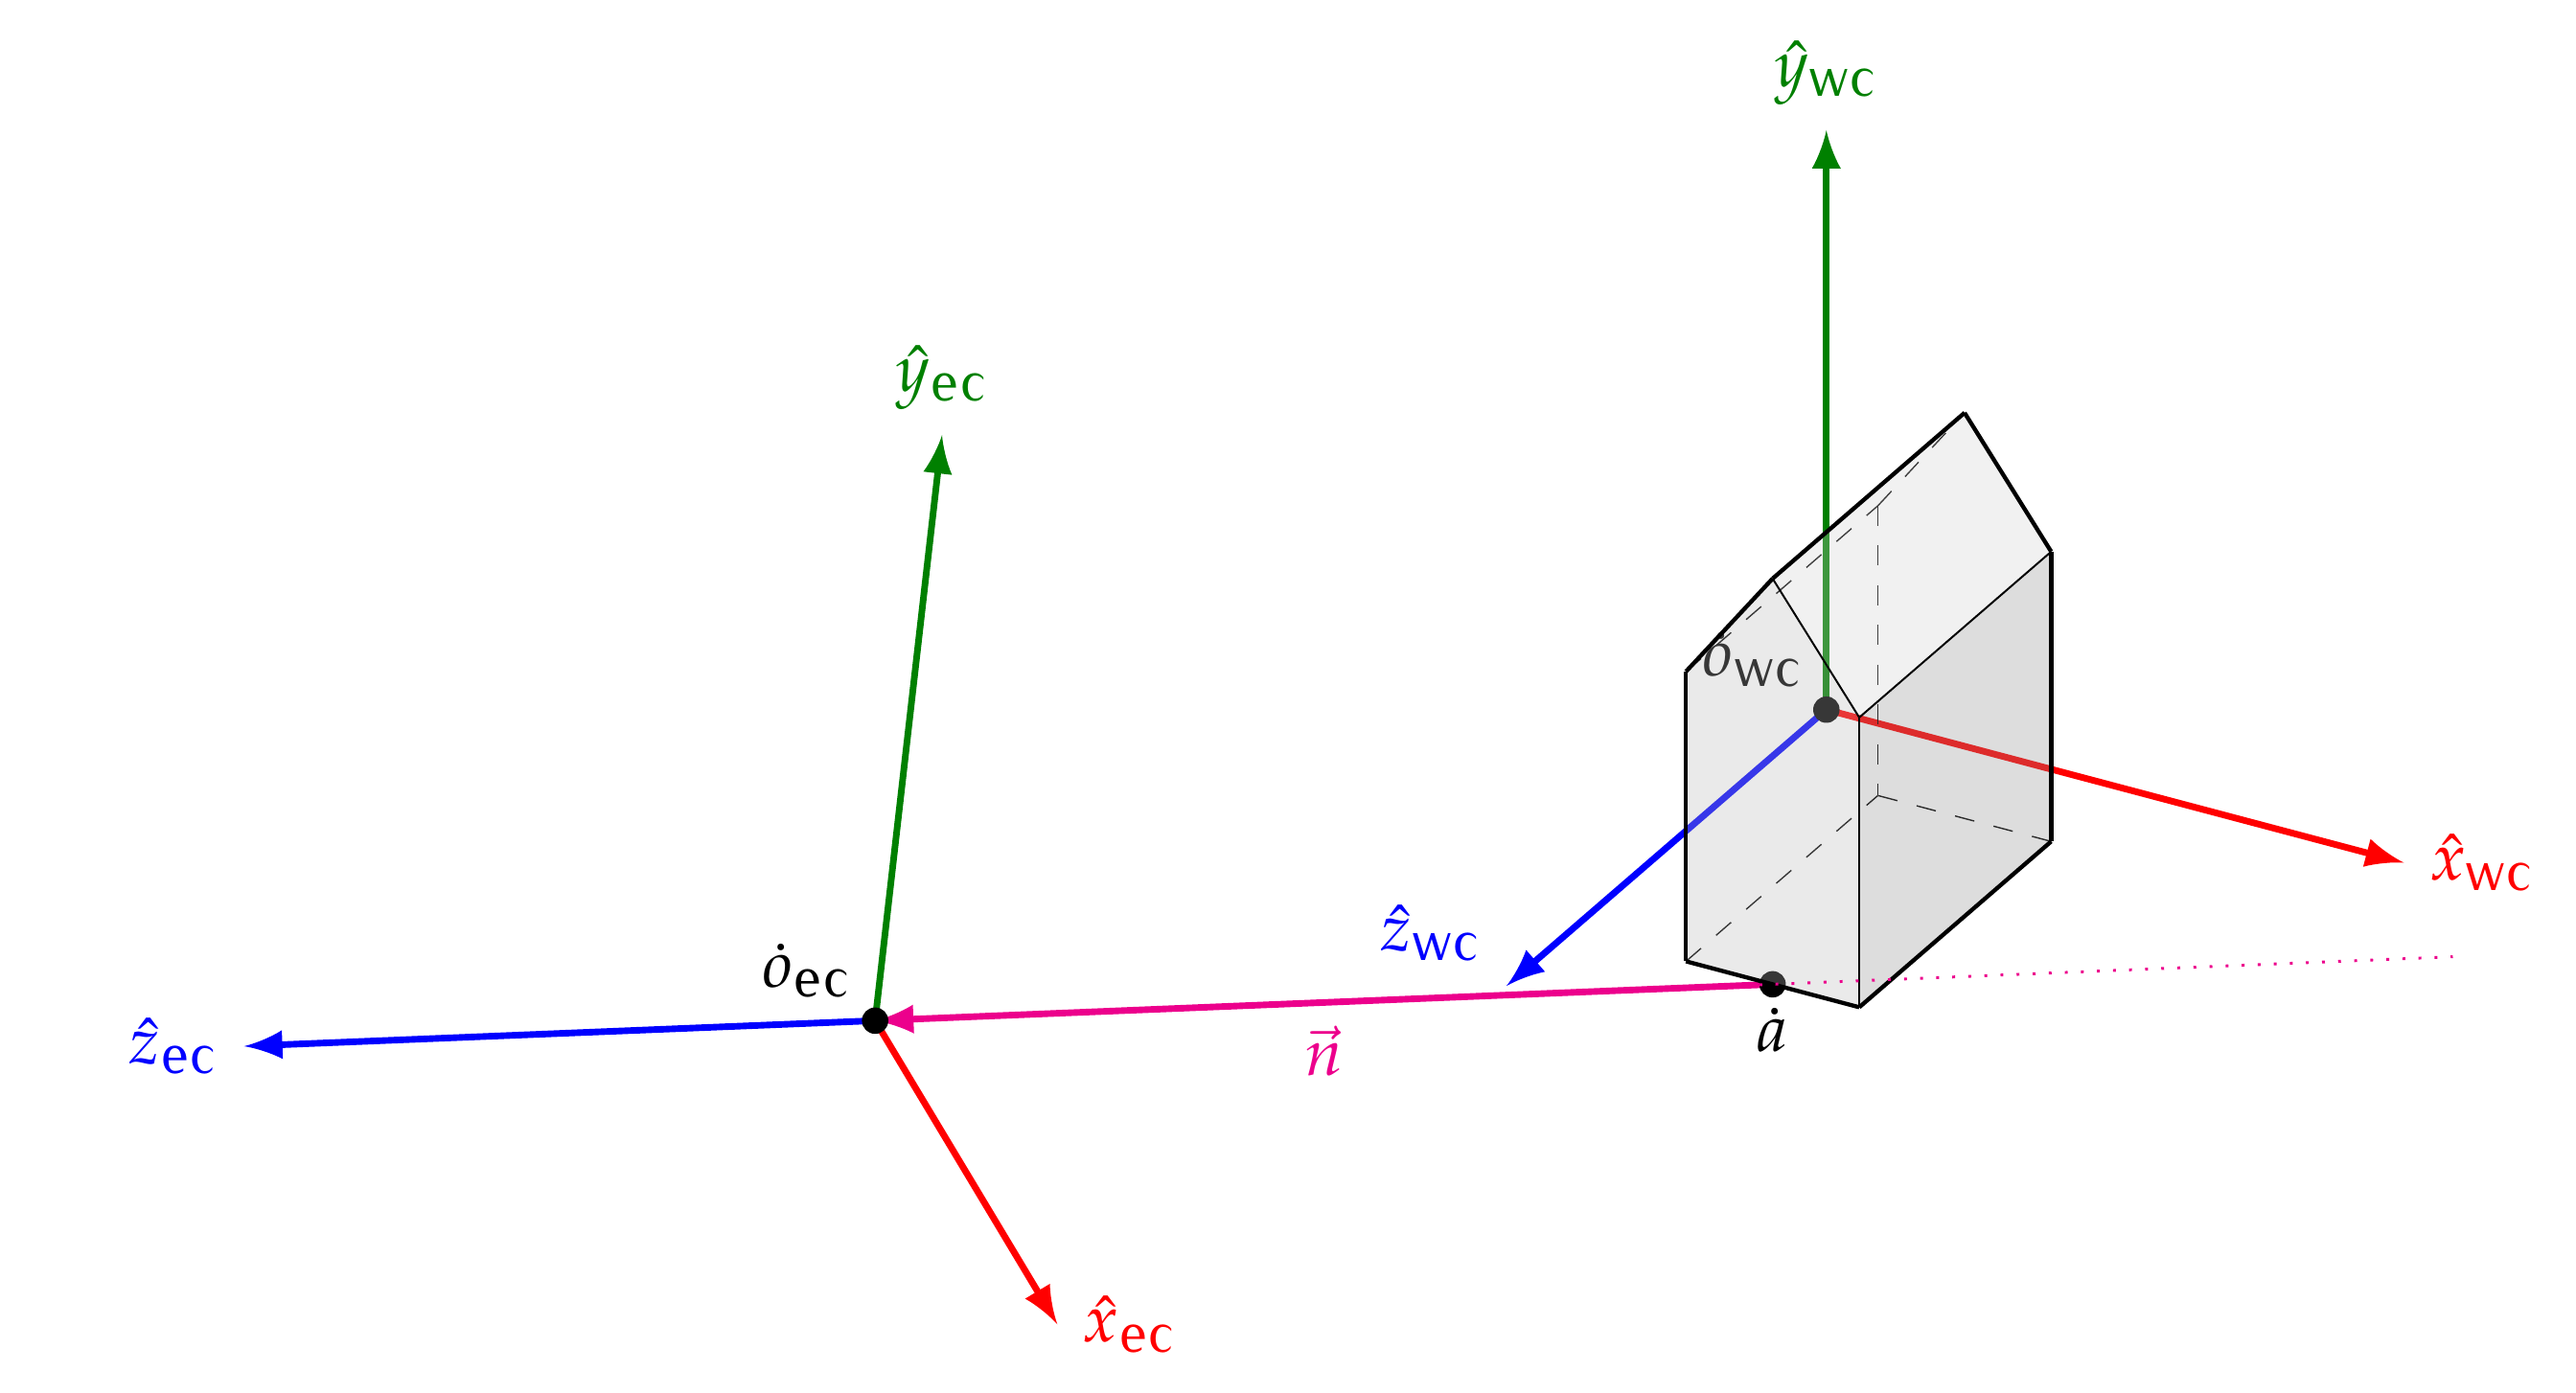
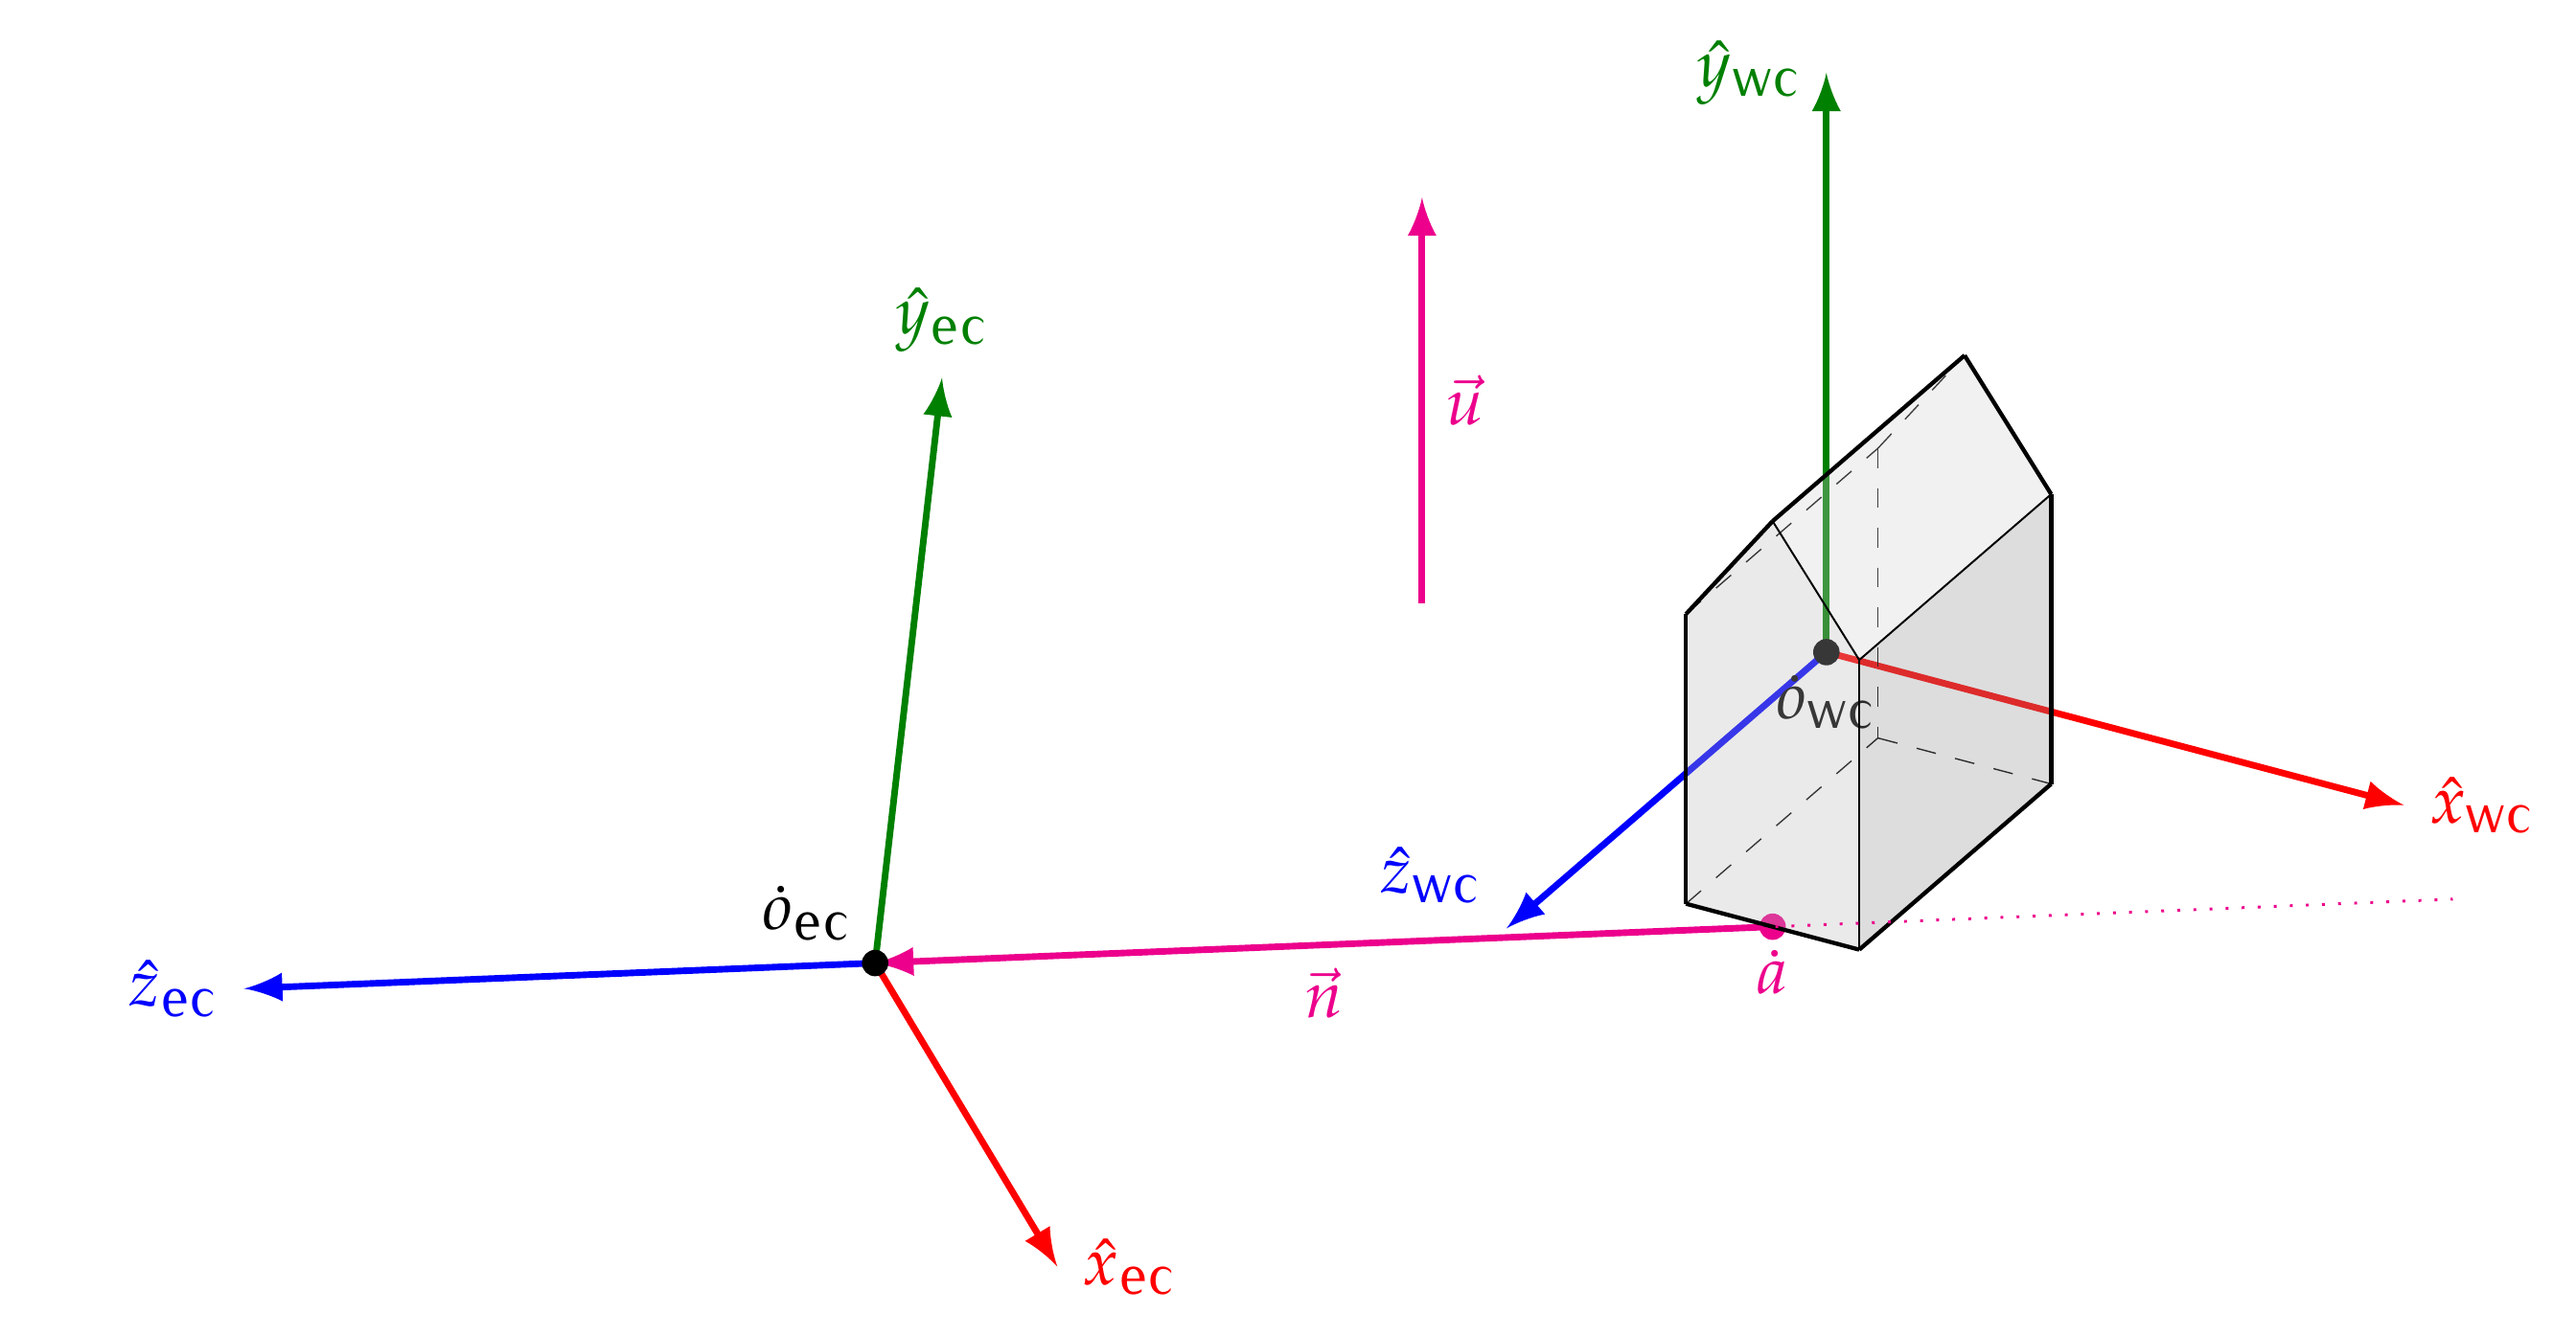
updated fig.13 and fig.14

diff --git a/src/fig14-matriz-vista-2.cpp b/src/fig14-matriz-vista-2.cpp
@@ -58,31 +58,43 @@ int main( int argc, char *argv[] )
       z_wc = view_mat*Vec4( 0.0, 0.0, 1.0, 0.0 ),
       o_wc = view_mat*Vec4( 0.0, 0.0, 0.0, 1.0 ),
 
-      o_ec = view_mat*Vec4( oec[0], oec[1], oec[2], 1.0 ),
-      x_ec = view_mat*Vec4( xec[0], xec[1], xec[2], 0.0 ),
-      y_ec = view_mat*Vec4( yec[0], yec[1], yec[2], 0.0 ),
-      z_ec = view_mat*Vec4( zec[0], zec[1], zec[2], 0.0 ),
+      o_ec = view_mat*Vec4( oec[0], oec[1], oec[2], 1.0 ), // (0,0,0) - pero lo dejo así para ver ue va bien la matriz
+      x_ec = view_mat*Vec4( xec[0], xec[1], xec[2], 0.0 ), // (1,0,0)
+      y_ec = view_mat*Vec4( yec[0], yec[1], yec[2], 0.0 ), // (0,1,0)
+      z_ec = view_mat*Vec4( zec[0], zec[1], zec[2], 0.0 ), // (0,0,1)
 
       at_ec4 = view_mat*Vec4( at[0], at[1], at[2], 1.0 ),
       n_ec4  = view_mat*Vec4( n[0], n[1], n[2], 0.0 ) ;
 
+   const Vec4
+      u_wc4  = { 0.0,  0.7, 0.0, 0.0 } ,
+      uo_wc4 = {-0.7, -0.1, 0.0, 1.0 } ,  // point where 'u' is placed (u's origin )
+      u_ec4  = view_mat*u_wc4,
+      uo_ec4 = view_mat*uo_wc4 ;
+
    const Vec3 
       at_ec = { at_ec4[0], at_ec4[1], at_ec4[2] },
-      n_ec  = { n_ec4[0],  n_ec4[1],  n_ec4[2]  } ;
+      n_ec  = { n_ec4[0],  n_ec4[1],  n_ec4[2]  } ,
+      u_ec  = { u_ec4[0],  u_ec4[1],  u_ec4[2]  } ,
+      uo_ec = { uo_ec4[0], uo_ec4[1], uo_ec4[2]  } ;
 
    
 
    const auto 
       casita = InstancedMesh { MurosCasita {1.4},  view_mat*Mat4_Translation( {0.2, 0.0, 0.2} )*Mat4_Scale( { 0.3, 0.5, 0.6} ) } ;
 
-   // draw n vector 
+   // draw n vector and label 
    line( at_ec, at_ec + n_ec, "->,>=latex,color=magenta,line width=0.35mm", " ");
+   const Vec3 pos_ec = at_ec + 0.5f*n_ec ;
+   cout << "\\path " << pos_ec << " node[below] {\\color{magenta}$\\fln$};" << endl ;
    // draw at point 
    disk( at_ec, "black", "radius=0.2mm", " node[below] {$\\pta$}" ); 
 
-   // draw label for n vector 
-   const Vec3 pos_ec = at_ec + 0.5f*n_ec ;
-   cout << "\\path " << pos_ec << " node[below] {\\color{magenta}$\\fln$};" << endl ;
+   // draw u vector and label
+   
+   line( uo_ec, uo_ec+u_ec, "->,>=latex,color=magenta,line width=0.35mm", " ");
+   const Vec3 posu_ec = uo_ec + 0.5f*u_ec ;
+   cout << "\\path " << posu_ec << " node[right] {\\color{magenta}$\\flu$};" << endl ;
    
 
    // settings for the axes

diff --git a/src/fig13-matriz-vista-1.cpp b/src/fig13-matriz-vista-1.cpp
@@ -37,7 +37,8 @@ int main( int argc, char *argv[] )
    const Vec3
       at = { 0.35, 0.0, 0.8 } ,
       n  = { -1.0, 0.15, 1.0 }, //{ -0.5, 0.3, 0.9 } ,
-      u  = { 0.0, 1.0, 0.0 } ;
+      u  = { 0.0, 0.7, 0.0 } ,
+      uo = {-0.7,-0.1,0.0} ;  // point where 'u' is placed (u's origin )
 
    const Vec3 
       zec = n.normalized(),
@@ -67,14 +68,22 @@ int main( int argc, char *argv[] )
    const auto 
       casita = InstancedMesh { MurosCasita {1.4},  Mat4_Translation( {0.2, 0.0, 0.2} )*Mat4_Scale( { 0.3, 0.5, 0.6} ) } ;
 
-   // draw n vector 
+   // draw n vector and label 
    line( at, oec, "->,>=latex,color=magenta,line width=0.35mm", " ");
-   // draw at point 
-   disk( at, "black", "radius=0.2mm", " node[below] {$\\pta$}" ); 
-
-   // draw label for n vector 
    const Vec3 pos = at+ 0.5f*n ;
    cout << "\\path " << pos << " node[below] {\\color{magenta}$\\fln$};" << endl ;
+
+   // draw at point 
+   disk( at, "magenta", "radius=0.2mm", " node[below] {\\color{magenta}$\\pta$}" ); 
+
+   // draw u vector and label
+   
+   line( uo, uo+u, "->,>=latex,color=magenta,line width=0.35mm", " ");
+   const Vec3 posu = uo + 0.5f*u ;
+   cout << "\\path " << posu << " node[right] {\\color{magenta}$\\flu$};" << endl ;
+   
+
+
    
 
    // settings for the axes
@@ -84,9 +93,9 @@ int main( int argc, char *argv[] )
    // draw WCC frame
 
    line( o_wc, x_wc, "->,>=latex,color=red," +lw, "node[right] {$\\vux_" + subscript + "$}" );
-   line( o_wc, y_wc, "->,>=latex,color=green!50!black," +lw , "node[above] {$\\vuy_" + subscript + "$}" );
+   line( o_wc, y_wc, "->,>=latex,color=green!50!black," +lw , "node[left] {$\\vuy_" + subscript + "$}" );
    line( o_wc, z_wc, "->,>=latex,color=blue," +lw , "node[above left] {$\\vuz_" + subscript + "$}" );
-   disk( o_wc, "black", "radius=0.2mm", " node[above left] {$\\pto_" + subscript + "$}" );
+   disk( o_wc, "black", "radius=0.2mm", " node[below] {$\\pto_" + subscript + "$}" );
 
    // draw house ...
    casita.draw_style_1( view_vec );
